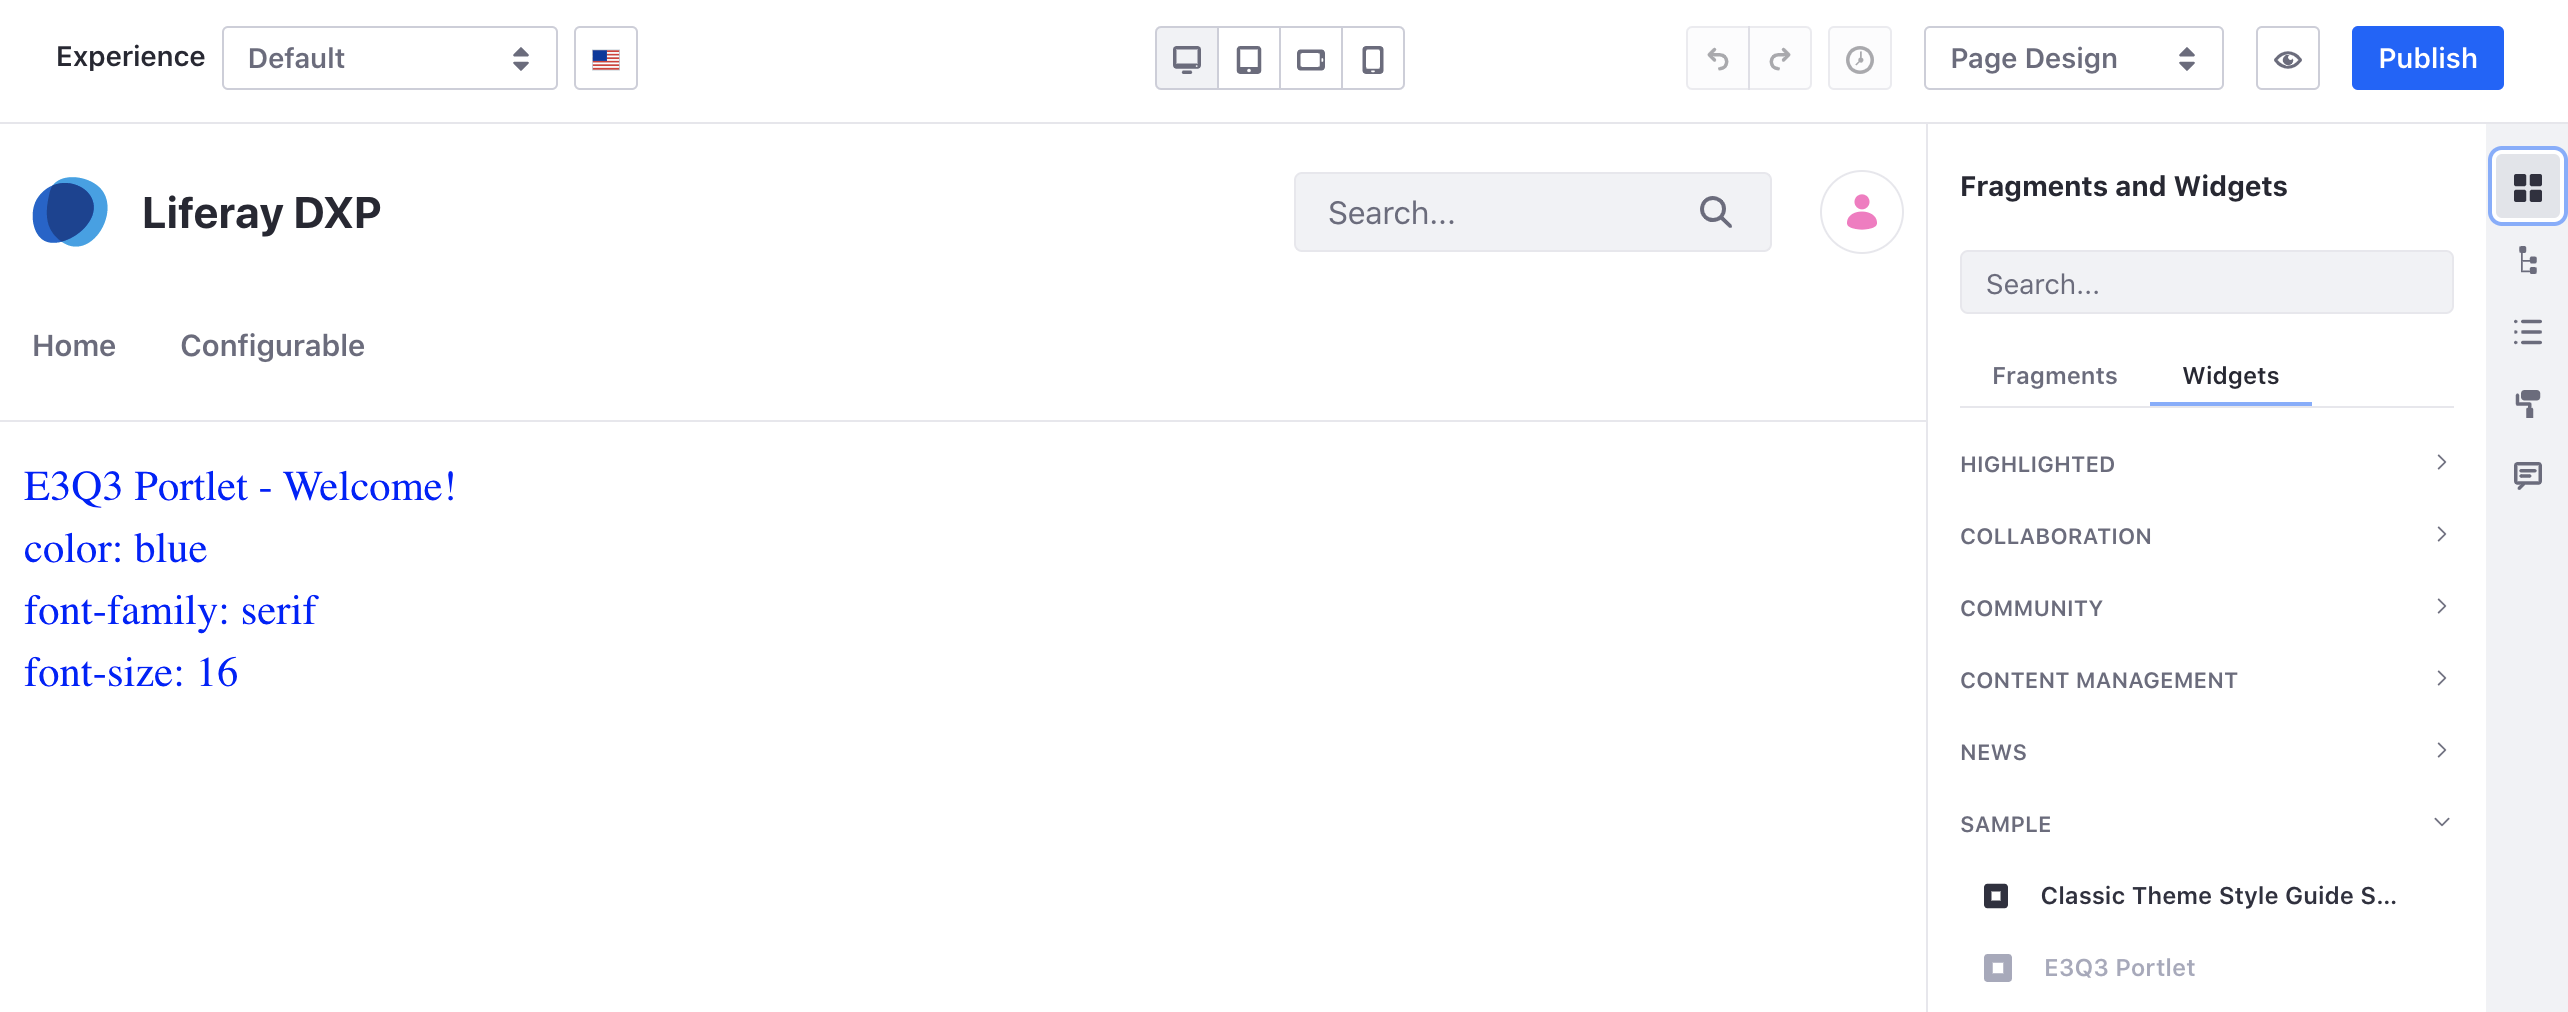
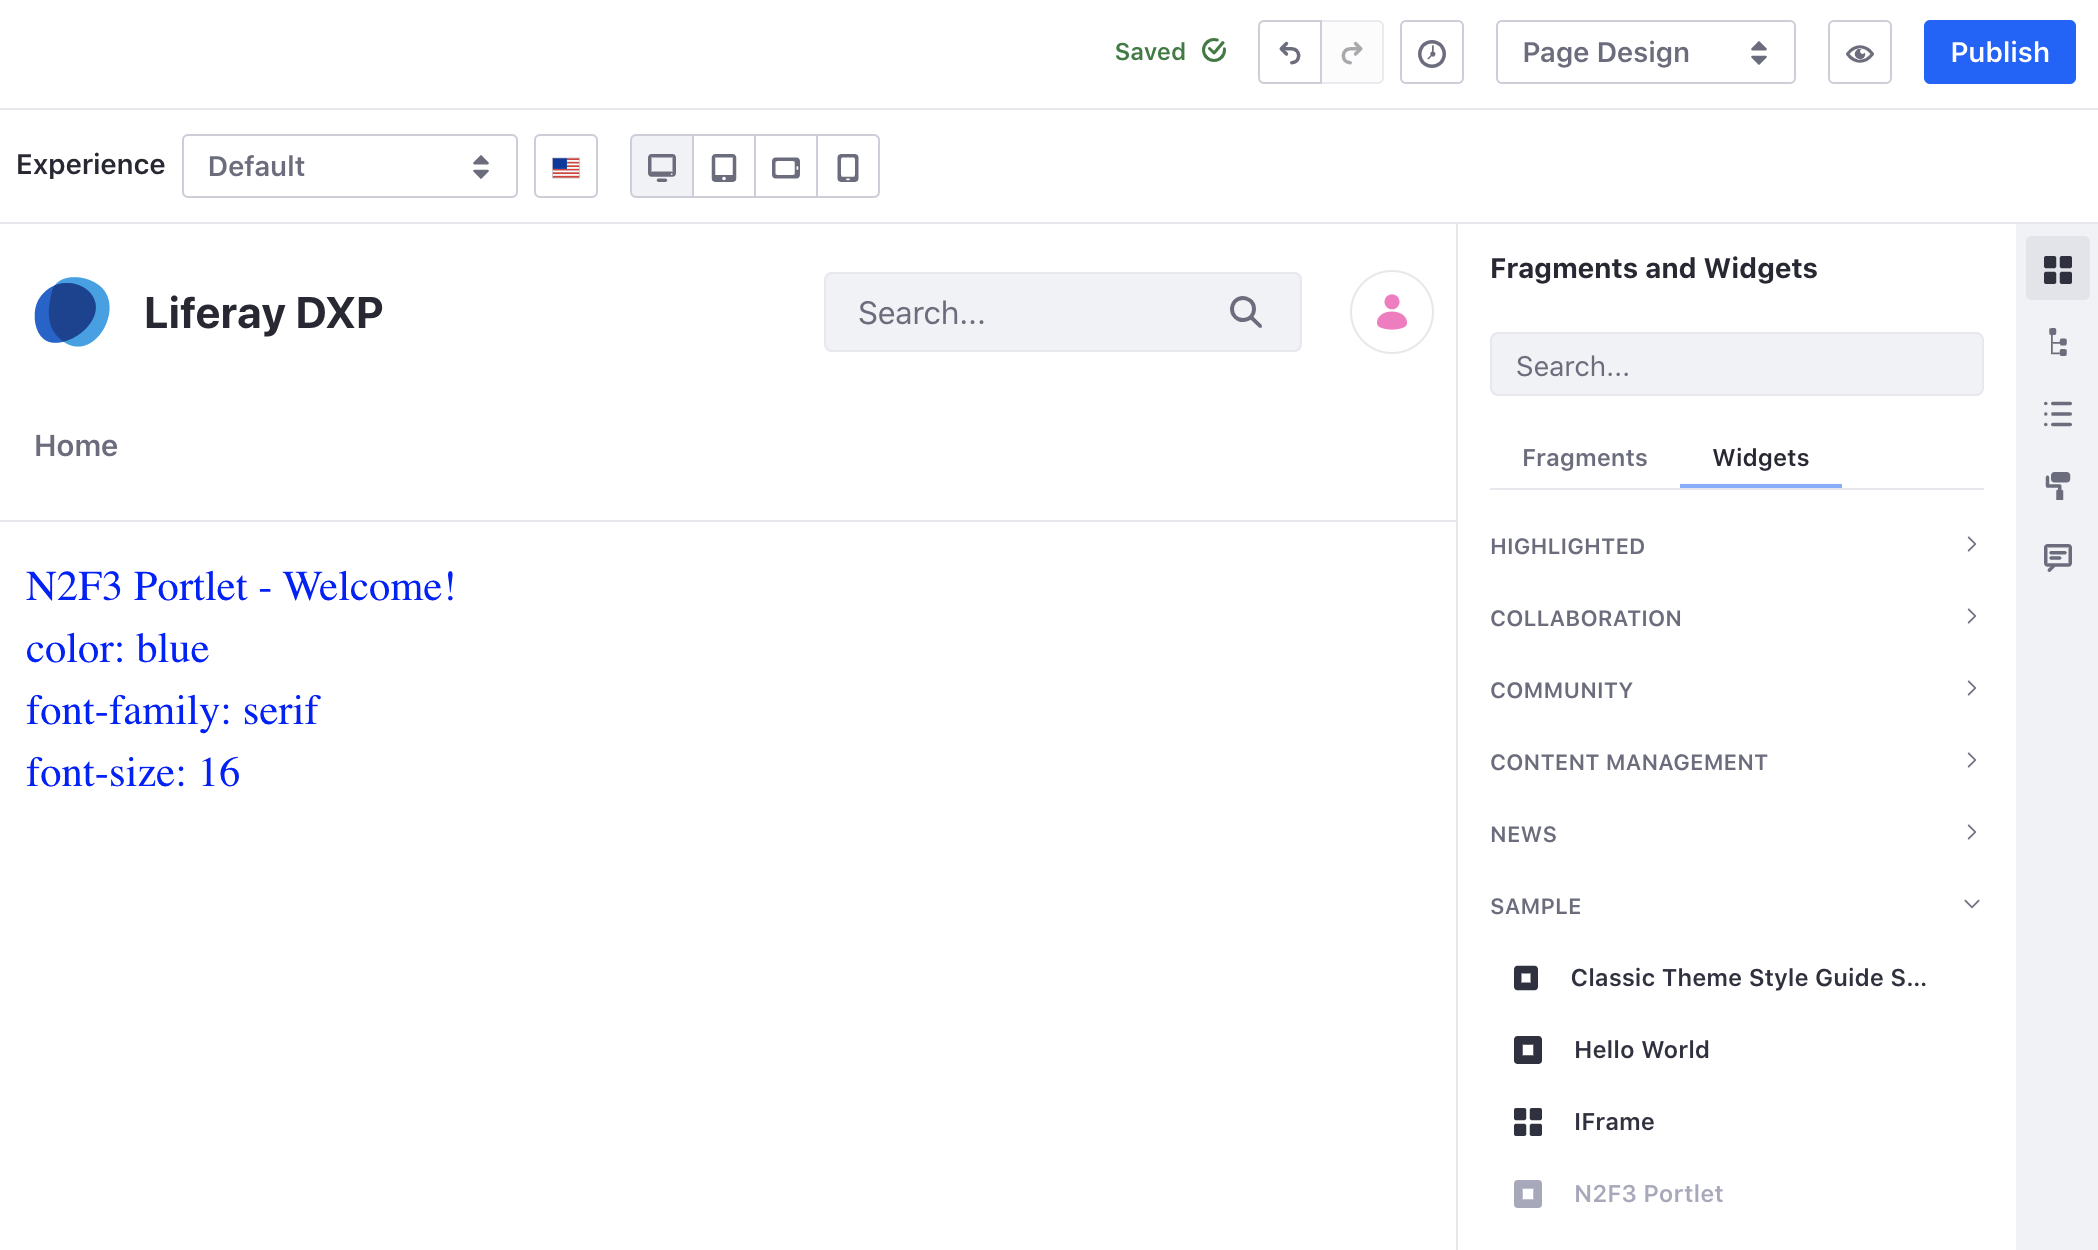
LRDOCS-9474 setting-and-accessing-configuration update

diff --git a/docs/dxp/latest/en/developing-applications/core-frameworks/configurable-application/setting-and-accessing-configurations.md b/docs/dxp/latest/en/developing-applications/core-frameworks/configurable-application/setting-and-accessing-configurations.md
@@ -9,7 +9,6 @@ You can use Liferay's configuration framework to add a settings UI for a MVC Por
     ```bash
     docker run -it -m 8g -p 8080:8080 [$LIFERAY_LEARN_DXP_DOCKER_IMAGE$]
     ```
-
 1. Download and unzip [Setting and Accessing Configurations](./liferay-e3q3.zip).
 
     ```bash
@@ -17,7 +16,7 @@ You can use Liferay's configuration framework to add a settings UI for a MVC Por
     ```
 
     ```bash
-    unzip liferay-e3q3.zip
+    unzip liferay-n2f3.zip
     ```
 
 1. From the module root, build and deploy.
@@ -33,20 +32,20 @@ You can use Liferay's configuration framework to add a settings UI for a MVC Por
 1. Confirm the deployment in the Liferay Docker container console.
 
     ```
-    STARTED com.acme.e3q3.web.0.0 [1650]
+    STARTED com.acme.n2f3.web.0.0 [1650]
     ```
 
 1. Verify that the example module is working. Open your browser to `https://localhost:8080`
 
-1. Add the E3Q3 Portlet to a page. You can find the example portlet under Sample Widgets.
+1. Add the N2F3 Portlet to a page. You can find the example portlet under Sample Widgets.
 
-    ![Add the E3Q3 Portlet to a page.](./setting-and-accessing-configurations/images/01.png)
+    ![Add the N2F3 Portlet to a page.](./setting-and-accessing-configurations/images/01.png)
 
     The UI shows a welcome message along with the three configurable attributes: font color, font family, and font size.
 
-1. To change the configuration, navigate to *Control Panel* &rarr; *Configuration* &rarr; *System Settings*. Under Platform click *Third Party*. Click the name of the sample application on the left.
+2. To change the configuration, navigate to *Control Panel* &rarr; *Configuration* &rarr; *System Settings*. Under Other click *category.n2f3*.
 
-    ![Click the name of the application in the Third Party list.](./setting-and-accessing-configurations/images/02.png)
+    ![Click category.n2f3 under the Other category.](./setting-and-accessing-configurations/images/02.png)
 
     Try entering a different font color, font family, and font size. Click the *Update* button and go back to your page with the published widget. Verify that the attributes have changed.
 
@@ -56,14 +55,14 @@ Here's how the configuration framework works.
 
 Defining configurable attributes in a configuration interface is enough to generate a configuration UI in [System Settings](../../../system-administration/configuring-liferay/system-settings.md). It also defines the configurable attributes. 
 
-In the sample project, the `E3Q3WebConfiguration.java` file is the configuration interface. 
+In the sample project, the `N2F3WebConfiguration.java` file is the configuration interface. 
 
 ```{literalinclude} ./setting-and-accessing-configurations/resources/liferay-e3q3.zip/e3q3-web/src/main/java/com/acme/e3q3/web/internal/configuration/E3Q3WebConfiguration.java
 :language: java
 :lines: 5-17
 ```
 
-Note, for this interface no scope is defined, so the configuration scope is set automatically to `SYSTEM`.
+Note, for this example interface the scope is set to `Scope.COMPANY`. See [Scoping Configurations](./scoping-configurations.md) for more information.
 
 The interface has three configurable attributes: font color, font family, and font size. Note that color and family are type `string` and size is type `int`.
 
@@ -82,7 +81,7 @@ Next, see how the configuration is read by the MVC Portlet.
 1. In the `@Component` annotation, the configuration interface class is specified with the `configurationPid`:
 
     ```java
-    configurationPid = "com.acme.e3q3.web.internal.configuration.E3Q3WebConfiguration"
+    configurationPid = "com.acme.n2f3.web.internal.configuration.N2F3WebConfiguration"
     ```
 
 1. The `activate()` method has an `@Activate` annotation that invokes the method as soon as the app is started. The `@Modified` annotation ensures the method is invoked whenever the configuration is updated.
@@ -110,14 +109,14 @@ Next, see how the configuration is read by the MVC Portlet.
 1. The following import statement adds the configuration interface to the JSP: 
 
     ```markup
-    <%@ page import="com.acme.e3q3.web.internal.configuration.E3Q3WebConfiguration" %>
+    <%@ page import="com.acme.n2f3.web.internal.configuration.N2F3WebConfiguration" %>
     ```
 
 1. The configuration object from the request object is obtained and the configuration values are read.
 
     ```markup
     <%
-    E3Q3WebConfiguration e3q3WebConfiguration = (E3Q3WebConfiguration)request.getAttribute(E3Q3WebConfiguration.class.getName());
+    N2F3WebConfiguration n2f3WebConfiguration = (N2F3WebConfiguration)request.getAttribute(N2F3WebConfiguration.class.getName());
     %>
     ```
 
@@ -145,3 +144,4 @@ Now the font family attribute is a dropdown selection.
 ## Further Customization
 
 * [Categorizing a Configuration](./categorizing-a-configuration.md)
+* [Scoping Configurations](./scoping-configurations)
